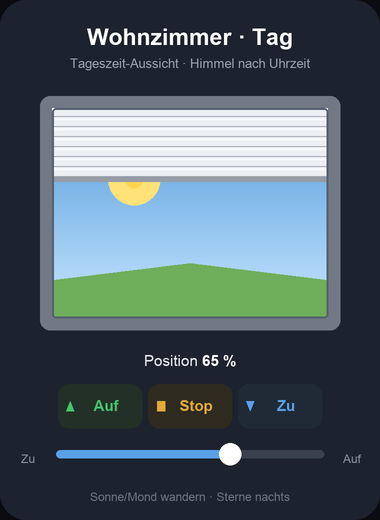
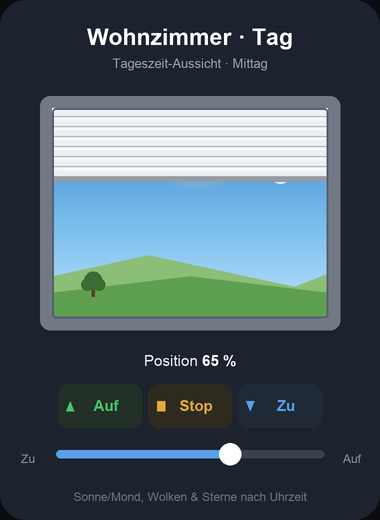
Rollladen Tageszeit-Aussicht: realistischer (Glow, Wolken, Mond, Huegel)
- Mehrfarbiger Himmel (Top/Mitte/Horizont) mit weichen Uebergaengen + Horizontglow
- Sonne mit Halo, faerbt sich am Horizont orange; Mondsichel nachts
- Wolken (tagsueber, in Daemmerung warm getoent), abgestufte Sterne
- Zwei gestaffelte Huegel + Baum-Silhouette, nachts abgedunkelt
- Vorschau-PNGs aktualisiert: Morgen/Tag/Abend/Nacht

diff --git a/EltakoIPBlind/visualization.html b/EltakoIPBlind/visualization.html
@@ -68,70 +68,92 @@
     rsFit();
   }
 
-  // ---- Tageszeit-Aussicht (Canvas) ----
+  // ---- Tageszeit-Aussicht (Canvas), realistisch ----
   function lerp(a,b,t){ return a+(b-a)*t; }
   function mix(c1,c2,t){ return [Math.round(lerp(c1[0],c2[0],t)),Math.round(lerp(c1[1],c2[1],t)),Math.round(lerp(c1[2],c2[2],t))]; }
   function rgb(c){ return 'rgb('+c[0]+','+c[1]+','+c[2]+')'; }
-  // Farb-Stops je Stunde: [hour, topColor, bottomColor]
+  // Farb-Stops je Stunde: [hour, top, mitte, horizont]
   var SKY=[
-    [0,  [11,16,38],   [26,35,72]],
-    [6,  [32,48,79],   [232,160,96]],
-    [8,  [95,168,224], [207,234,255]],
-    [13, [63,134,214], [191,227,255]],
-    [18, [42,74,122],  [255,178,122]],
-    [20, [22,32,74],   [58,42,74]],
-    [24, [11,16,38],   [26,35,72]]
+    [0,   [7,11,28],    [13,20,46],   [22,30,66]],
+    [5.5, [20,30,60],   [60,70,110],  [150,110,120]],
+    [7,   [70,130,200], [170,190,210],[255,180,120]],
+    [9,   [70,150,225], [150,205,240],[205,235,255]],
+    [13,  [58,128,210], [120,190,235],[190,225,255]],
+    [17,  [70,135,205], [150,195,235],[222,224,232]],
+    [19,  [45,70,120],  [180,110,90], [255,150,80]],
+    [20.5,[25,35,75],   [70,55,90],   [120,70,90]],
+    [22,  [9,14,34],    [15,22,50],   [24,32,68]],
+    [24,  [7,11,28],    [13,20,46],   [22,30,66]]
   ];
   function skyAt(hr){
     for(var i=0;i<SKY.length-1;i++){
       if(hr>=SKY[i][0] && hr<=SKY[i+1][0]){
         var t=(hr-SKY[i][0])/(SKY[i+1][0]-SKY[i][0]);
-        return [mix(SKY[i][1],SKY[i+1][1],t), mix(SKY[i][2],SKY[i+1][2],t)];
+        return [mix(SKY[i][1],SKY[i+1][1],t), mix(SKY[i][2],SKY[i+1][2],t), mix(SKY[i][3],SKY[i+1][3],t)];
       }
     }
-    return [SKY[0][1],SKY[0][2]];
+    return [SKY[0][1],SKY[0][2],SKY[0][3]];
   }
-  var rsStars=null;
+  function puff(ctx,x,y,r){ ctx.beginPath(); ctx.arc(x,y,r,0,7); ctx.fill(); }
+  var rsStars=null, rsClouds=[[0.20,0.20,1.0],[0.58,0.14,1.25],[0.80,0.30,0.85]];
   function drawSky(){
     var c=document.getElementById('rsSky'); if(!c) return;
-    var w=c.clientWidth||210, h=c.clientHeight||158;
-    c.width=w; c.height=h;
+    var w=c.clientWidth||210, h=c.clientHeight||158; c.width=w; c.height=h;
     var ctx=c.getContext('2d');
     var now=new Date(); var hr=now.getHours()+now.getMinutes()/60;
     var cols=skyAt(hr);
     var g=ctx.createLinearGradient(0,0,0,h);
-    g.addColorStop(0,rgb(cols[0])); g.addColorStop(1,rgb(cols[1]));
+    g.addColorStop(0,rgb(cols[0])); g.addColorStop(0.55,rgb(cols[1])); g.addColorStop(1,rgb(cols[2]));
     ctx.fillStyle=g; ctx.fillRect(0,0,w,h);
 
-    var night = (hr<5.3 || hr>20.2);
-    var dusk  = (hr>=18 && hr<=20.5) || (hr>=5 && hr<=7);
-    // Sterne nachts
-    if(night){
-      if(!rsStars){ rsStars=[]; for(var i=0;i<28;i++){ rsStars.push([Math.random(),Math.random()*0.6]); } }
-      ctx.fillStyle='rgba(255,255,255,0.9)';
-      for(var s=0;s<rsStars.length;s++){ ctx.fillRect(rsStars[s][0]*w, rsStars[s][1]*h, 1.4,1.4); }
+    var night=(hr<5.0 || hr>20.8);
+    var sunUp=(hr>=6.0 && hr<=19.2);
+    var altSun= sunUp ? Math.sin(((hr-6.0)/(19.2-6.0))*Math.PI) : 0;
+
+    // Sterne (abgestuft ein-/ausblenden)
+    var starA=(hr<4.8)?1:(hr<6?(6-hr)/1.2:(hr>21?Math.min(1,(hr-21)/1.0):0));
+    if(starA>0){
+      if(!rsStars){ rsStars=[]; for(var i=0;i<34;i++){ rsStars.push([Math.random(),Math.random()*0.62,0.4+Math.random()*0.6]); } }
+      for(var s=0;s<rsStars.length;s++){ ctx.fillStyle='rgba(255,255,255,'+(starA*rsStars[s][2]).toFixed(2)+')';
+        var ss=rsStars[s][2]>0.8?1.7:1.1; ctx.fillRect(rsStars[s][0]*w, rsStars[s][1]*h, ss, ss); }
     }
-    // Sonne (6.5..18.5) bzw. Mond (sonst)
-    var sunUp = (hr>=6.3 && hr<=18.7);
-    var prog, cx, cy;
+
     if(sunUp){
-      prog=(hr-6.3)/(18.7-6.3);
-      cx=prog*w; cy=h*0.92 - Math.sin(prog*Math.PI)*h*0.72;
-      var grd=ctx.createRadialGradient(cx,cy,2,cx,cy,26);
-      grd.addColorStop(0,'rgba(255,236,150,0.95)'); grd.addColorStop(1,'rgba(255,210,90,0)');
-      ctx.fillStyle=grd; ctx.beginPath(); ctx.arc(cx,cy,26,0,7); ctx.fill();
-      ctx.fillStyle= dusk ? '#ff9d4d' : '#ffd451';
-      ctx.beginPath(); ctx.arc(cx,cy,9,0,7); ctx.fill();
-    } else {
-      var nh = (hr>18.7) ? (hr-18.7) : (hr+5.3);
-      prog = nh/(24-18.7+6.3); cx=prog*w; cy=h*0.85 - Math.sin(prog*Math.PI)*h*0.55;
-      ctx.fillStyle='#e9edf5'; ctx.beginPath(); ctx.arc(cx,cy,7,0,7); ctx.fill();
-      ctx.fillStyle=rgb(cols[0]); ctx.beginPath(); ctx.arc(cx+3,cy-2,6,0,7); ctx.fill();
+      var prog=(hr-6.0)/(19.2-6.0), cx=prog*w, cy=h*0.96-altSun*h*0.78;
+      var hal=ctx.createRadialGradient(cx,cy,2,cx,cy,46);
+      hal.addColorStop(0,'rgba(255,240,170,0.55)'); hal.addColorStop(1,'rgba(255,220,120,0)');
+      ctx.fillStyle=hal; ctx.beginPath(); ctx.arc(cx,cy,46,0,7); ctx.fill();
+      ctx.fillStyle=rgb(mix([255,150,70],[255,225,120],altSun));
+      ctx.beginPath(); ctx.arc(cx,cy,8.5,0,7); ctx.fill();
+    } else if(night){
+      var nh=(hr>19.2)?(hr-19.2):(hr+4.8), p2=nh/((24-19.2)+6.0);
+      var mx=p2*w, my=h*0.82-Math.sin(p2*Math.PI)*h*0.60;
+      ctx.fillStyle='rgba(245,247,252,0.95)'; ctx.beginPath(); ctx.arc(mx,my,7.5,0,7); ctx.fill();
+      ctx.fillStyle=rgb(cols[0]); ctx.beginPath(); ctx.arc(mx+3.5,my-2.5,6.5,0,7); ctx.fill();
     }
-    // Wiese unten
-    ctx.fillStyle = night ? '#1d3a23' : '#6fae5a';
-    ctx.beginPath(); ctx.moveTo(0,h); ctx.lineTo(0,h*0.82);
-    ctx.quadraticCurveTo(w*0.5,h*0.74,w,h*0.82); ctx.lineTo(w,h); ctx.closePath(); ctx.fill();
+
+    // Wolken (tagsueber; in der Daemmerung warm getoent; nachts aus)
+    var cloudA= night?0:(0.85*Math.min(1,Math.max(0.12,altSun+0.25)));
+    if(cloudA>0.05){
+      var ctint=(hr<7||hr>18)?'255,200,170':'255,255,255';
+      for(var k=0;k<rsClouds.length;k++){
+        var clx=rsClouds[k][0]*w, cly=rsClouds[k][1]*h, sc=rsClouds[k][2];
+        ctx.fillStyle='rgba('+ctint+','+(cloudA*0.9).toFixed(2)+')';
+        puff(ctx,clx,cly,9*sc); puff(ctx,clx+9*sc,cly+3*sc,12*sc); puff(ctx,clx+20*sc,cly,9*sc); puff(ctx,clx+10*sc,cly-5*sc,9*sc);
+      }
+    }
+
+    // Landschaft: zwei gestaffelte Huegel + Baum-Silhouette
+    ctx.fillStyle=rgb(night?[34,60,40]:[140,190,120]);
+    ctx.beginPath(); ctx.moveTo(0,h); ctx.lineTo(0,h*0.80);
+    ctx.quadraticCurveTo(w*0.35,h*0.70,w*0.70,h*0.80); ctx.quadraticCurveTo(w*0.88,h*0.85,w,h*0.79); ctx.lineTo(w,h); ctx.closePath(); ctx.fill();
+    ctx.fillStyle=rgb(night?[20,42,26]:[95,160,80]);
+    ctx.beginPath(); ctx.moveTo(0,h); ctx.lineTo(0,h*0.88);
+    ctx.quadraticCurveTo(w*0.5,h*0.80,w,h*0.88); ctx.lineTo(w,h); ctx.closePath(); ctx.fill();
+    var tc=night?[16,30,20]:[58,108,54], tx=w*0.15, ty=h*0.87;
+    ctx.fillStyle=rgb(night?[40,28,18]:[90,62,40]); ctx.fillRect(tx-1.5,ty-6,3,12);
+    ctx.fillStyle=rgb(tc); ctx.beginPath(); ctx.arc(tx,ty-10,9,0,7); ctx.fill();
+    ctx.beginPath(); ctx.arc(tx-6,ty-6,6,0,7); ctx.fill(); ctx.beginPath(); ctx.arc(tx+6,ty-6,6,0,7); ctx.fill();
   }
 
   function rsFit(){